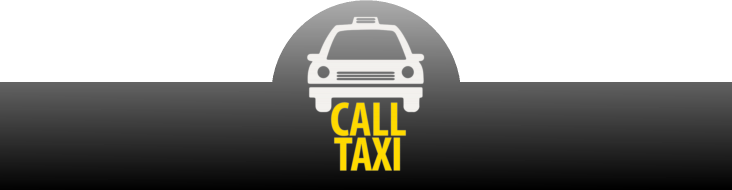
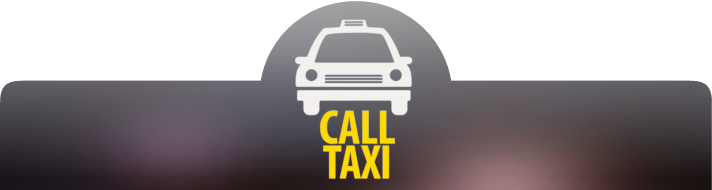
new map

diff --git a/locate.html b/locate.html
@@ -10,7 +10,9 @@
     <style>
         #calltaxiui {
         background-image: url(calltaxi.png);
-        background-size: 100% 100%;
+        background-size: contain;
+        background-repeat: no-repeat;
+        background-position: center bottom;
         width: 100%;
         height: 12%;
         position: absolute;
@@ -50,7 +52,7 @@
   <body>
       
     <div id="map">
-    <div id="centermarker" class="centerMarker"></div>  
+    <div id="centermarker" class=""></div>  
     </div>
 
       <script>
